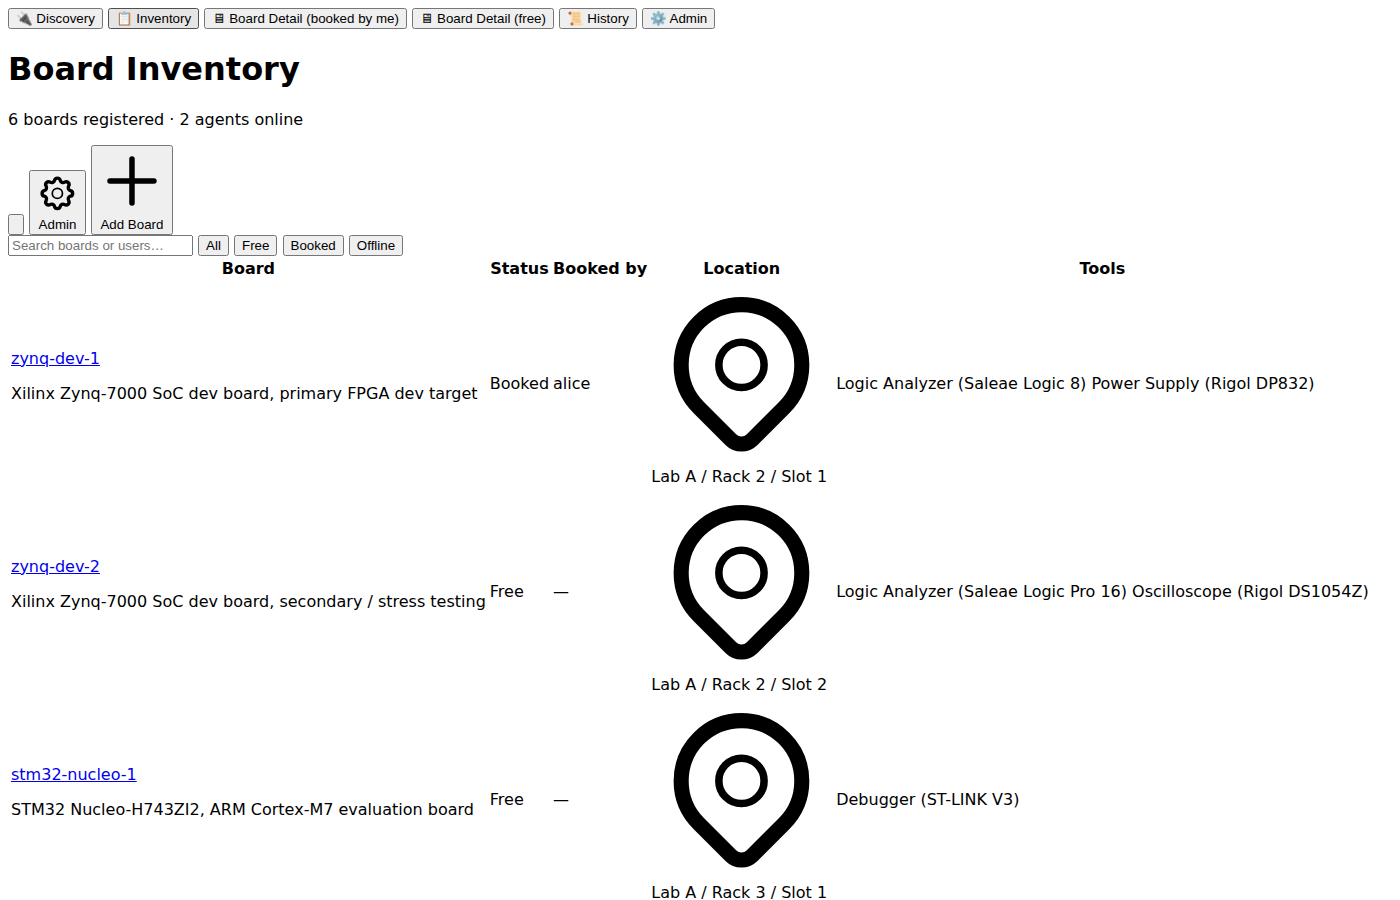
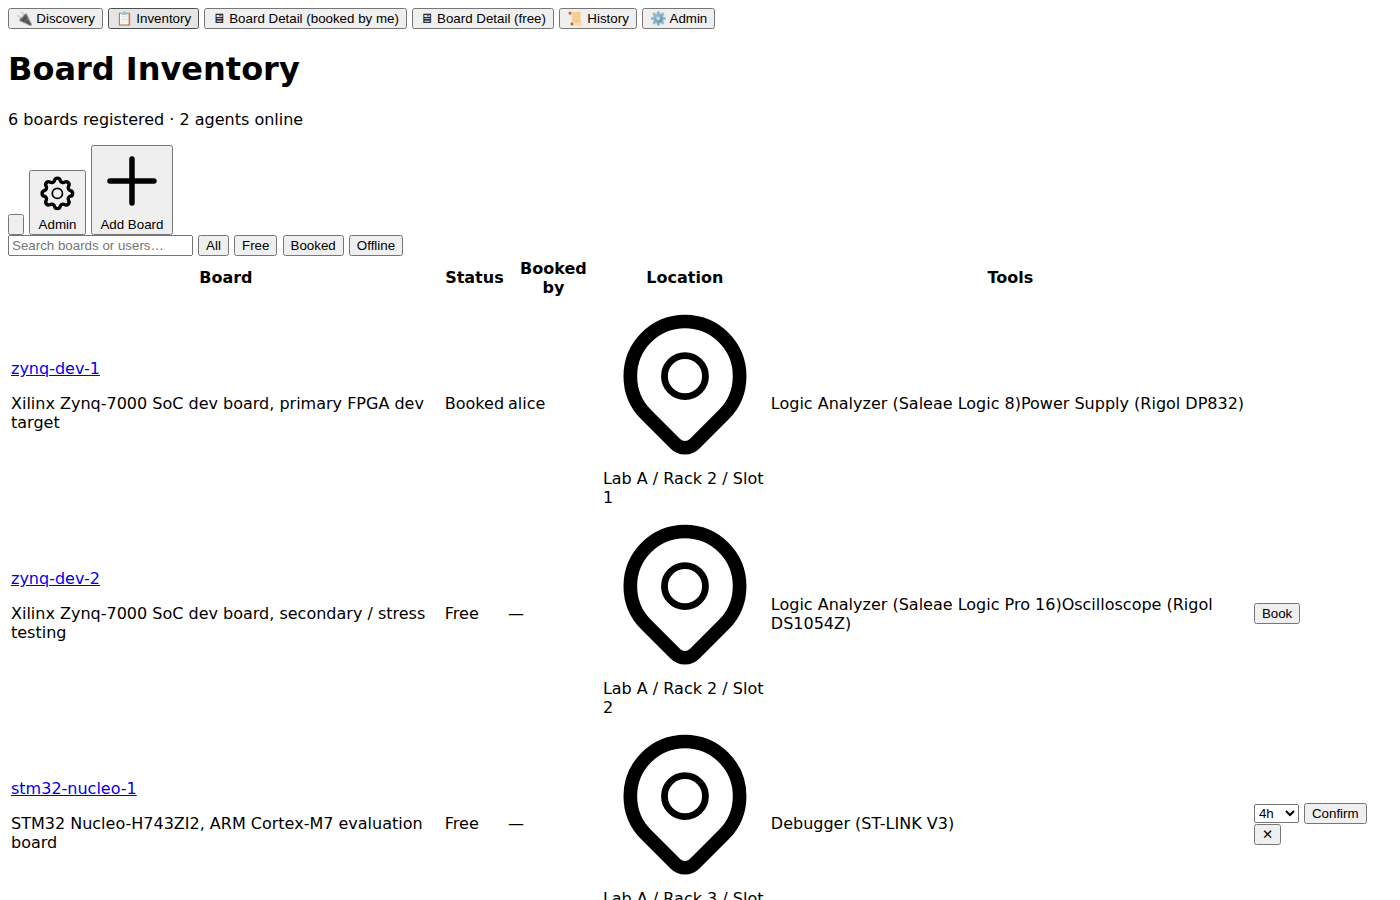
feat: add inline quick-book button to inventory table
Free boards show a Book button in the last column. Clicking it expands
inline to a duration selector (1h–24h) and Confirm/cancel. On confirm,
books the board and navigates to the board detail page. Booked, offline,
and disabled boards show no button.

https://claude.ai/code/session_01GABJSn9qP5pQbQ7Q7k4QpR

diff --git a/ui-mockup.html b/ui-mockup.html
@@ -100,11 +100,12 @@
             <th class="text-left px-4 py-3 text-xs font-medium text-gray-500 uppercase tracking-wide">Booked by</th>
             <th class="text-left px-4 py-3 text-xs font-medium text-gray-500 uppercase tracking-wide">Location</th>
             <th class="text-left px-4 py-3 text-xs font-medium text-gray-500 uppercase tracking-wide">Tools</th>
+            <th class="px-4 py-3"></th>
           </tr>
         </thead>
         <tbody class="divide-y divide-gray-100">
 
-          <!-- zynq-dev-1: Booked by alice -->
+          <!-- zynq-dev-1: Booked by alice — no book button -->
           <tr class="hover:bg-gray-50">
             <td class="px-4 py-3">
               <a href="#" class="font-medium text-gray-900 hover:text-blue-600 hover:underline">zynq-dev-1</a>
@@ -112,21 +113,12 @@
             </td>
             <td class="px-4 py-3"><span class="px-2 py-0.5 text-xs rounded-full bg-red-100 text-red-700">Booked</span></td>
             <td class="px-4 py-3"><span class="font-medium text-gray-800">alice</span></td>
-            <td class="px-4 py-3">
-              <div class="flex items-center gap-1 text-xs text-gray-500">
-                <svg class="w-3 h-3 flex-shrink-0" fill="none" stroke="currentColor" viewBox="0 0 24 24"><path stroke-linecap="round" stroke-linejoin="round" stroke-width="2" d="M17.657 16.657L13.414 20.9a1.998 1.998 0 01-2.827 0l-4.244-4.243a8 8 0 1111.314 0z"/><circle cx="12" cy="11" r="3"/></svg>
-                Lab A / Rack 2 / Slot 1
-              </div>
-            </td>
-            <td class="px-4 py-3">
-              <div class="flex flex-wrap gap-1">
-                <span class="px-2 py-0.5 text-xs rounded-full bg-blue-100 text-blue-800">Logic Analyzer <span class="opacity-70">(Saleae Logic 8)</span></span>
-                <span class="px-2 py-0.5 text-xs rounded-full bg-blue-100 text-blue-800">Power Supply <span class="opacity-70">(Rigol DP832)</span></span>
-              </div>
-            </td>
+            <td class="px-4 py-3"><div class="flex items-center gap-1 text-xs text-gray-500"><svg class="w-3 h-3 flex-shrink-0" fill="none" stroke="currentColor" viewBox="0 0 24 24"><path stroke-linecap="round" stroke-linejoin="round" stroke-width="2" d="M17.657 16.657L13.414 20.9a1.998 1.998 0 01-2.827 0l-4.244-4.243a8 8 0 1111.314 0z"/><circle cx="12" cy="11" r="3"/></svg>Lab A / Rack 2 / Slot 1</div></td>
+            <td class="px-4 py-3"><div class="flex flex-wrap gap-1"><span class="px-2 py-0.5 text-xs rounded-full bg-blue-100 text-blue-800">Logic Analyzer <span class="opacity-70">(Saleae Logic 8)</span></span><span class="px-2 py-0.5 text-xs rounded-full bg-blue-100 text-blue-800">Power Supply <span class="opacity-70">(Rigol DP832)</span></span></div></td>
+            <td class="px-4 py-3"></td>
           </tr>
 
-          <!-- zynq-dev-2: Free -->
+          <!-- zynq-dev-2: Free — Book button (collapsed) -->
           <tr class="hover:bg-gray-50">
             <td class="px-4 py-3">
               <a href="#" class="font-medium text-gray-900 hover:text-blue-600 hover:underline">zynq-dev-2</a>
@@ -134,36 +126,30 @@
             </td>
             <td class="px-4 py-3"><span class="px-2 py-0.5 text-xs rounded-full bg-green-100 text-green-700">Free</span></td>
             <td class="px-4 py-3"><span class="text-gray-300">—</span></td>
-            <td class="px-4 py-3">
-              <div class="flex items-center gap-1 text-xs text-gray-500">
-                <svg class="w-3 h-3 flex-shrink-0" fill="none" stroke="currentColor" viewBox="0 0 24 24"><path stroke-linecap="round" stroke-linejoin="round" stroke-width="2" d="M17.657 16.657L13.414 20.9a1.998 1.998 0 01-2.827 0l-4.244-4.243a8 8 0 1111.314 0z"/><circle cx="12" cy="11" r="3"/></svg>
-                Lab A / Rack 2 / Slot 2
-              </div>
-            </td>
-            <td class="px-4 py-3">
-              <div class="flex flex-wrap gap-1">
-                <span class="px-2 py-0.5 text-xs rounded-full bg-blue-100 text-blue-800">Logic Analyzer <span class="opacity-70">(Saleae Logic Pro 16)</span></span>
-                <span class="px-2 py-0.5 text-xs rounded-full bg-blue-100 text-blue-800">Oscilloscope <span class="opacity-70">(Rigol DS1054Z)</span></span>
-              </div>
-            </td>
+            <td class="px-4 py-3"><div class="flex items-center gap-1 text-xs text-gray-500"><svg class="w-3 h-3 flex-shrink-0" fill="none" stroke="currentColor" viewBox="0 0 24 24"><path stroke-linecap="round" stroke-linejoin="round" stroke-width="2" d="M17.657 16.657L13.414 20.9a1.998 1.998 0 01-2.827 0l-4.244-4.243a8 8 0 1111.314 0z"/><circle cx="12" cy="11" r="3"/></svg>Lab A / Rack 2 / Slot 2</div></td>
+            <td class="px-4 py-3"><div class="flex flex-wrap gap-1"><span class="px-2 py-0.5 text-xs rounded-full bg-blue-100 text-blue-800">Logic Analyzer <span class="opacity-70">(Saleae Logic Pro 16)</span></span><span class="px-2 py-0.5 text-xs rounded-full bg-blue-100 text-blue-800">Oscilloscope <span class="opacity-70">(Rigol DS1054Z)</span></span></div></td>
+            <td class="px-4 py-3 text-right"><button class="px-3 py-1 text-xs rounded-lg bg-blue-600 text-white hover:bg-blue-700 whitespace-nowrap">Book</button></td>
           </tr>
 
-          <!-- stm32-nucleo-1: Free -->
-          <tr class="hover:bg-gray-50">
+          <!-- stm32-nucleo-1: Free — Book button (expanded/active state) -->
+          <tr class="hover:bg-gray-50 bg-blue-50">
             <td class="px-4 py-3">
               <a href="#" class="font-medium text-gray-900 hover:text-blue-600 hover:underline">stm32-nucleo-1</a>
               <p class="text-xs text-gray-400 mt-0.5 max-w-xs truncate">STM32 Nucleo-H743ZI2, ARM Cortex-M7 evaluation board</p>
             </td>
             <td class="px-4 py-3"><span class="px-2 py-0.5 text-xs rounded-full bg-green-100 text-green-700">Free</span></td>
             <td class="px-4 py-3"><span class="text-gray-300">—</span></td>
-            <td class="px-4 py-3">
-              <div class="flex items-center gap-1 text-xs text-gray-500">
-                <svg class="w-3 h-3 flex-shrink-0" fill="none" stroke="currentColor" viewBox="0 0 24 24"><path stroke-linecap="round" stroke-linejoin="round" stroke-width="2" d="M17.657 16.657L13.414 20.9a1.998 1.998 0 01-2.827 0l-4.244-4.243a8 8 0 1111.314 0z"/><circle cx="12" cy="11" r="3"/></svg>
-                Lab A / Rack 3 / Slot 1
+            <td class="px-4 py-3"><div class="flex items-center gap-1 text-xs text-gray-500"><svg class="w-3 h-3 flex-shrink-0" fill="none" stroke="currentColor" viewBox="0 0 24 24"><path stroke-linecap="round" stroke-linejoin="round" stroke-width="2" d="M17.657 16.657L13.414 20.9a1.998 1.998 0 01-2.827 0l-4.244-4.243a8 8 0 1111.314 0z"/><circle cx="12" cy="11" r="3"/></svg>Lab A / Rack 3 / Slot 1</div></td>
+            <td class="px-4 py-3"><span class="px-2 py-0.5 text-xs rounded-full bg-blue-100 text-blue-800">Debugger <span class="opacity-70">(ST-LINK V3)</span></span></td>
+            <td class="px-4 py-3 text-right">
+              <!-- expanded quick-book state -->
+              <div class="flex items-center justify-end gap-1.5">
+                <select class="border rounded px-1.5 py-1 text-xs bg-white">
+                  <option>1h</option><option>2h</option><option selected>4h</option><option>8h</option><option>12h</option><option>24h</option>
+                </select>
+                <button class="px-2.5 py-1 text-xs rounded-lg bg-blue-600 text-white hover:bg-blue-700 whitespace-nowrap">Confirm</button>
+                <button class="px-2 py-1 text-xs text-gray-400 hover:text-gray-600">✕</button>
               </div>
-            </td>
-            <td class="px-4 py-3">
-              <span class="px-2 py-0.5 text-xs rounded-full bg-blue-100 text-blue-800">Debugger <span class="opacity-70">(ST-LINK V3)</span></span>
             </td>
           </tr>
 
@@ -175,18 +161,12 @@
             </td>
             <td class="px-4 py-3"><span class="px-2 py-0.5 text-xs rounded-full bg-red-100 text-red-700">Booked</span></td>
             <td class="px-4 py-3"><span class="font-medium text-gray-800">bob</span></td>
-            <td class="px-4 py-3">
-              <div class="flex items-center gap-1 text-xs text-gray-500">
-                <svg class="w-3 h-3 flex-shrink-0" fill="none" stroke="currentColor" viewBox="0 0 24 24"><path stroke-linecap="round" stroke-linejoin="round" stroke-width="2" d="M17.657 16.657L13.414 20.9a1.998 1.998 0 01-2.827 0l-4.244-4.243a8 8 0 1111.314 0z"/><circle cx="12" cy="11" r="3"/></svg>
-                Lab B / Bench 1
-              </div>
-            </td>
-            <td class="px-4 py-3">
-              <span class="px-2 py-0.5 text-xs rounded-full bg-blue-100 text-blue-800">Power Supply <span class="opacity-70">(Bench PSU 30V/5A)</span></span>
-            </td>
+            <td class="px-4 py-3"><div class="flex items-center gap-1 text-xs text-gray-500"><svg class="w-3 h-3 flex-shrink-0" fill="none" stroke="currentColor" viewBox="0 0 24 24"><path stroke-linecap="round" stroke-linejoin="round" stroke-width="2" d="M17.657 16.657L13.414 20.9a1.998 1.998 0 01-2.827 0l-4.244-4.243a8 8 0 1111.314 0z"/><circle cx="12" cy="11" r="3"/></svg>Lab B / Bench 1</div></td>
+            <td class="px-4 py-3"><span class="px-2 py-0.5 text-xs rounded-full bg-blue-100 text-blue-800">Power Supply <span class="opacity-70">(Bench PSU 30V/5A)</span></span></td>
+            <td class="px-4 py-3"></td>
           </tr>
 
-          <!-- ultra96-v2: Free -->
+          <!-- ultra96-v2: Free — Book button -->
           <tr class="hover:bg-gray-50">
             <td class="px-4 py-3">
               <a href="#" class="font-medium text-gray-900 hover:text-blue-600 hover:underline">ultra96-v2</a>
@@ -194,21 +174,12 @@
             </td>
             <td class="px-4 py-3"><span class="px-2 py-0.5 text-xs rounded-full bg-green-100 text-green-700">Free</span></td>
             <td class="px-4 py-3"><span class="text-gray-300">—</span></td>
-            <td class="px-4 py-3">
-              <div class="flex items-center gap-1 text-xs text-gray-500">
-                <svg class="w-3 h-3 flex-shrink-0" fill="none" stroke="currentColor" viewBox="0 0 24 24"><path stroke-linecap="round" stroke-linejoin="round" stroke-width="2" d="M17.657 16.657L13.414 20.9a1.998 1.998 0 01-2.827 0l-4.244-4.243a8 8 0 1111.314 0z"/><circle cx="12" cy="11" r="3"/></svg>
-                Lab A / Rack 1 / Slot 3
-              </div>
-            </td>
-            <td class="px-4 py-3">
-              <div class="flex flex-wrap gap-1">
-                <span class="px-2 py-0.5 text-xs rounded-full bg-blue-100 text-blue-800">Logic Analyzer <span class="opacity-70">(Saleae Logic 8)</span></span>
-                <span class="px-2 py-0.5 text-xs rounded-full bg-blue-100 text-blue-800">Power Supply <span class="opacity-70">(Rigol DP711)</span></span>
-              </div>
-            </td>
+            <td class="px-4 py-3"><div class="flex items-center gap-1 text-xs text-gray-500"><svg class="w-3 h-3 flex-shrink-0" fill="none" stroke="currentColor" viewBox="0 0 24 24"><path stroke-linecap="round" stroke-linejoin="round" stroke-width="2" d="M17.657 16.657L13.414 20.9a1.998 1.998 0 01-2.827 0l-4.244-4.243a8 8 0 1111.314 0z"/><circle cx="12" cy="11" r="3"/></svg>Lab A / Rack 1 / Slot 3</div></td>
+            <td class="px-4 py-3"><div class="flex flex-wrap gap-1"><span class="px-2 py-0.5 text-xs rounded-full bg-blue-100 text-blue-800">Logic Analyzer <span class="opacity-70">(Saleae Logic 8)</span></span><span class="px-2 py-0.5 text-xs rounded-full bg-blue-100 text-blue-800">Power Supply <span class="opacity-70">(Rigol DP711)</span></span></div></td>
+            <td class="px-4 py-3 text-right"><button class="px-3 py-1 text-xs rounded-lg bg-blue-600 text-white hover:bg-blue-700 whitespace-nowrap">Book</button></td>
           </tr>
 
-          <!-- arty-a7: Offline/Disabled -->
+          <!-- arty-a7: Offline — no button -->
           <tr class="hover:bg-gray-50 opacity-50">
             <td class="px-4 py-3">
               <a href="#" class="font-medium text-gray-900 hover:text-blue-600 hover:underline">arty-a7</a>
@@ -216,15 +187,9 @@
             </td>
             <td class="px-4 py-3"><span class="px-2 py-0.5 text-xs rounded-full bg-gray-100 text-gray-500">Offline</span></td>
             <td class="px-4 py-3"><span class="text-gray-300">—</span></td>
-            <td class="px-4 py-3">
-              <div class="flex items-center gap-1 text-xs text-gray-500">
-                <svg class="w-3 h-3 flex-shrink-0" fill="none" stroke="currentColor" viewBox="0 0 24 24"><path stroke-linecap="round" stroke-linejoin="round" stroke-width="2" d="M17.657 16.657L13.414 20.9a1.998 1.998 0 01-2.827 0l-4.244-4.243a8 8 0 1111.314 0z"/><circle cx="12" cy="11" r="3"/></svg>
-                Lab B / Bench 2
-              </div>
-            </td>
-            <td class="px-4 py-3">
-              <span class="px-2 py-0.5 text-xs rounded-full bg-gray-100 text-gray-500">Debugger <span class="opacity-70">(JTAG-HS3)</span></span>
-            </td>
+            <td class="px-4 py-3"><div class="flex items-center gap-1 text-xs text-gray-500"><svg class="w-3 h-3 flex-shrink-0" fill="none" stroke="currentColor" viewBox="0 0 24 24"><path stroke-linecap="round" stroke-linejoin="round" stroke-width="2" d="M17.657 16.657L13.414 20.9a1.998 1.998 0 01-2.827 0l-4.244-4.243a8 8 0 1111.314 0z"/><circle cx="12" cy="11" r="3"/></svg>Lab B / Bench 2</div></td>
+            <td class="px-4 py-3"><span class="px-2 py-0.5 text-xs rounded-full bg-gray-100 text-gray-500">Debugger <span class="opacity-70">(JTAG-HS3)</span></span></td>
+            <td class="px-4 py-3"></td>
           </tr>
 
         </tbody>

diff --git a/frontend/src/pages/InventoryPage.tsx b/frontend/src/pages/InventoryPage.tsx
@@ -1,13 +1,77 @@
-import { useQuery } from '@tanstack/react-query';
+import { useMutation, useQuery, useQueryClient } from '@tanstack/react-query';
 import { MapPin, Plus, RefreshCw, Settings } from 'lucide-react';
-import { useState } from 'react';
-import { Link } from 'react-router-dom';
-import { listBoards } from '../api/client';
+import { useRef, useState } from 'react';
+import { Link, useNavigate } from 'react-router-dom';
+import { bookBoard, listBoards } from '../api/client';
 import StatusBadge from '../components/StatusBadge';
 import ToolBadge from '../components/ToolBadge';
 import { useStatusSocket } from '../hooks/useStatusSocket';
 
 type Filter = 'all' | 'free' | 'booked' | 'offline';
+
+const DURATIONS = [1, 2, 4, 8, 12, 24];
+
+function QuickBook({ boardId, boardName }: { boardId: string; boardName: string }) {
+  const qc = useQueryClient();
+  const navigate = useNavigate();
+  const [open, setOpen] = useState(false);
+  const [hours, setHours] = useState(4);
+  const ref = useRef<HTMLDivElement>(null);
+
+  const mut = useMutation({
+    mutationFn: () => bookBoard(boardId, hours),
+    onSuccess: (booking) => {
+      qc.invalidateQueries({ queryKey: ['boards'] });
+      navigate(`/boards/${boardId}`);
+    },
+  });
+
+  if (!open) {
+    return (
+      <button
+        onClick={(e) => { e.preventDefault(); setOpen(true); }}
+        className="px-3 py-1 text-xs rounded-lg bg-blue-600 text-white hover:bg-blue-700 whitespace-nowrap"
+      >
+        Book
+      </button>
+    );
+  }
+
+  return (
+    <div ref={ref} className="flex items-center gap-1.5">
+      <select
+        className="border rounded px-1.5 py-1 text-xs"
+        value={hours}
+        onChange={(e) => setHours(Number(e.target.value))}
+        autoFocus
+      >
+        {DURATIONS.map((h) => (
+          <option key={h} value={h}>{h}h</option>
+        ))}
+      </select>
+      <button
+        onClick={() => mut.mutate()}
+        disabled={mut.isPending}
+        className="px-2.5 py-1 text-xs rounded-lg bg-blue-600 text-white hover:bg-blue-700 disabled:opacity-50 whitespace-nowrap"
+      >
+        {mut.isPending ? '…' : 'Confirm'}
+      </button>
+      <button
+        onClick={() => setOpen(false)}
+        className="px-2 py-1 text-xs text-gray-400 hover:text-gray-600"
+      >
+        ✕
+      </button>
+      {mut.isError && (
+        <span className="text-xs text-red-500">
+          {(mut.error as Error).message}
+        </span>
+      )}
+    </div>
+  );
+}
+
+type Filter2 = 'all' | 'free' | 'booked' | 'offline';
 
 export default function InventoryPage() {
   const [filter, setFilter] = useState<Filter>('all');
@@ -37,6 +101,9 @@ export default function InventoryPage() {
 
     return matchSearch && matchFilter;
   });
+
+  const isFree = (b: (typeof boards)[0]) =>
+    b.enabled && b.agent_online && !b.active_booking;
 
   return (
     <div className="min-h-screen bg-gray-50">
@@ -115,6 +182,7 @@ export default function InventoryPage() {
                   <th className="text-left px-4 py-3 text-xs font-medium text-gray-500 uppercase tracking-wide">Booked by</th>
                   <th className="text-left px-4 py-3 text-xs font-medium text-gray-500 uppercase tracking-wide">Location</th>
                   <th className="text-left px-4 py-3 text-xs font-medium text-gray-500 uppercase tracking-wide">Tools</th>
+                  <th className="px-4 py-3"></th>
                 </tr>
               </thead>
               <tbody className="divide-y divide-gray-100">
@@ -165,6 +233,11 @@ export default function InventoryPage() {
                         ))}
                         {b.tools.length === 0 && <span className="text-gray-300">—</span>}
                       </div>
+                    </td>
+                    <td className="px-4 py-3 text-right whitespace-nowrap">
+                      {isFree(b) && (
+                        <QuickBook boardId={b.id} boardName={b.name} />
+                      )}
                     </td>
                   </tr>
                 ))}
